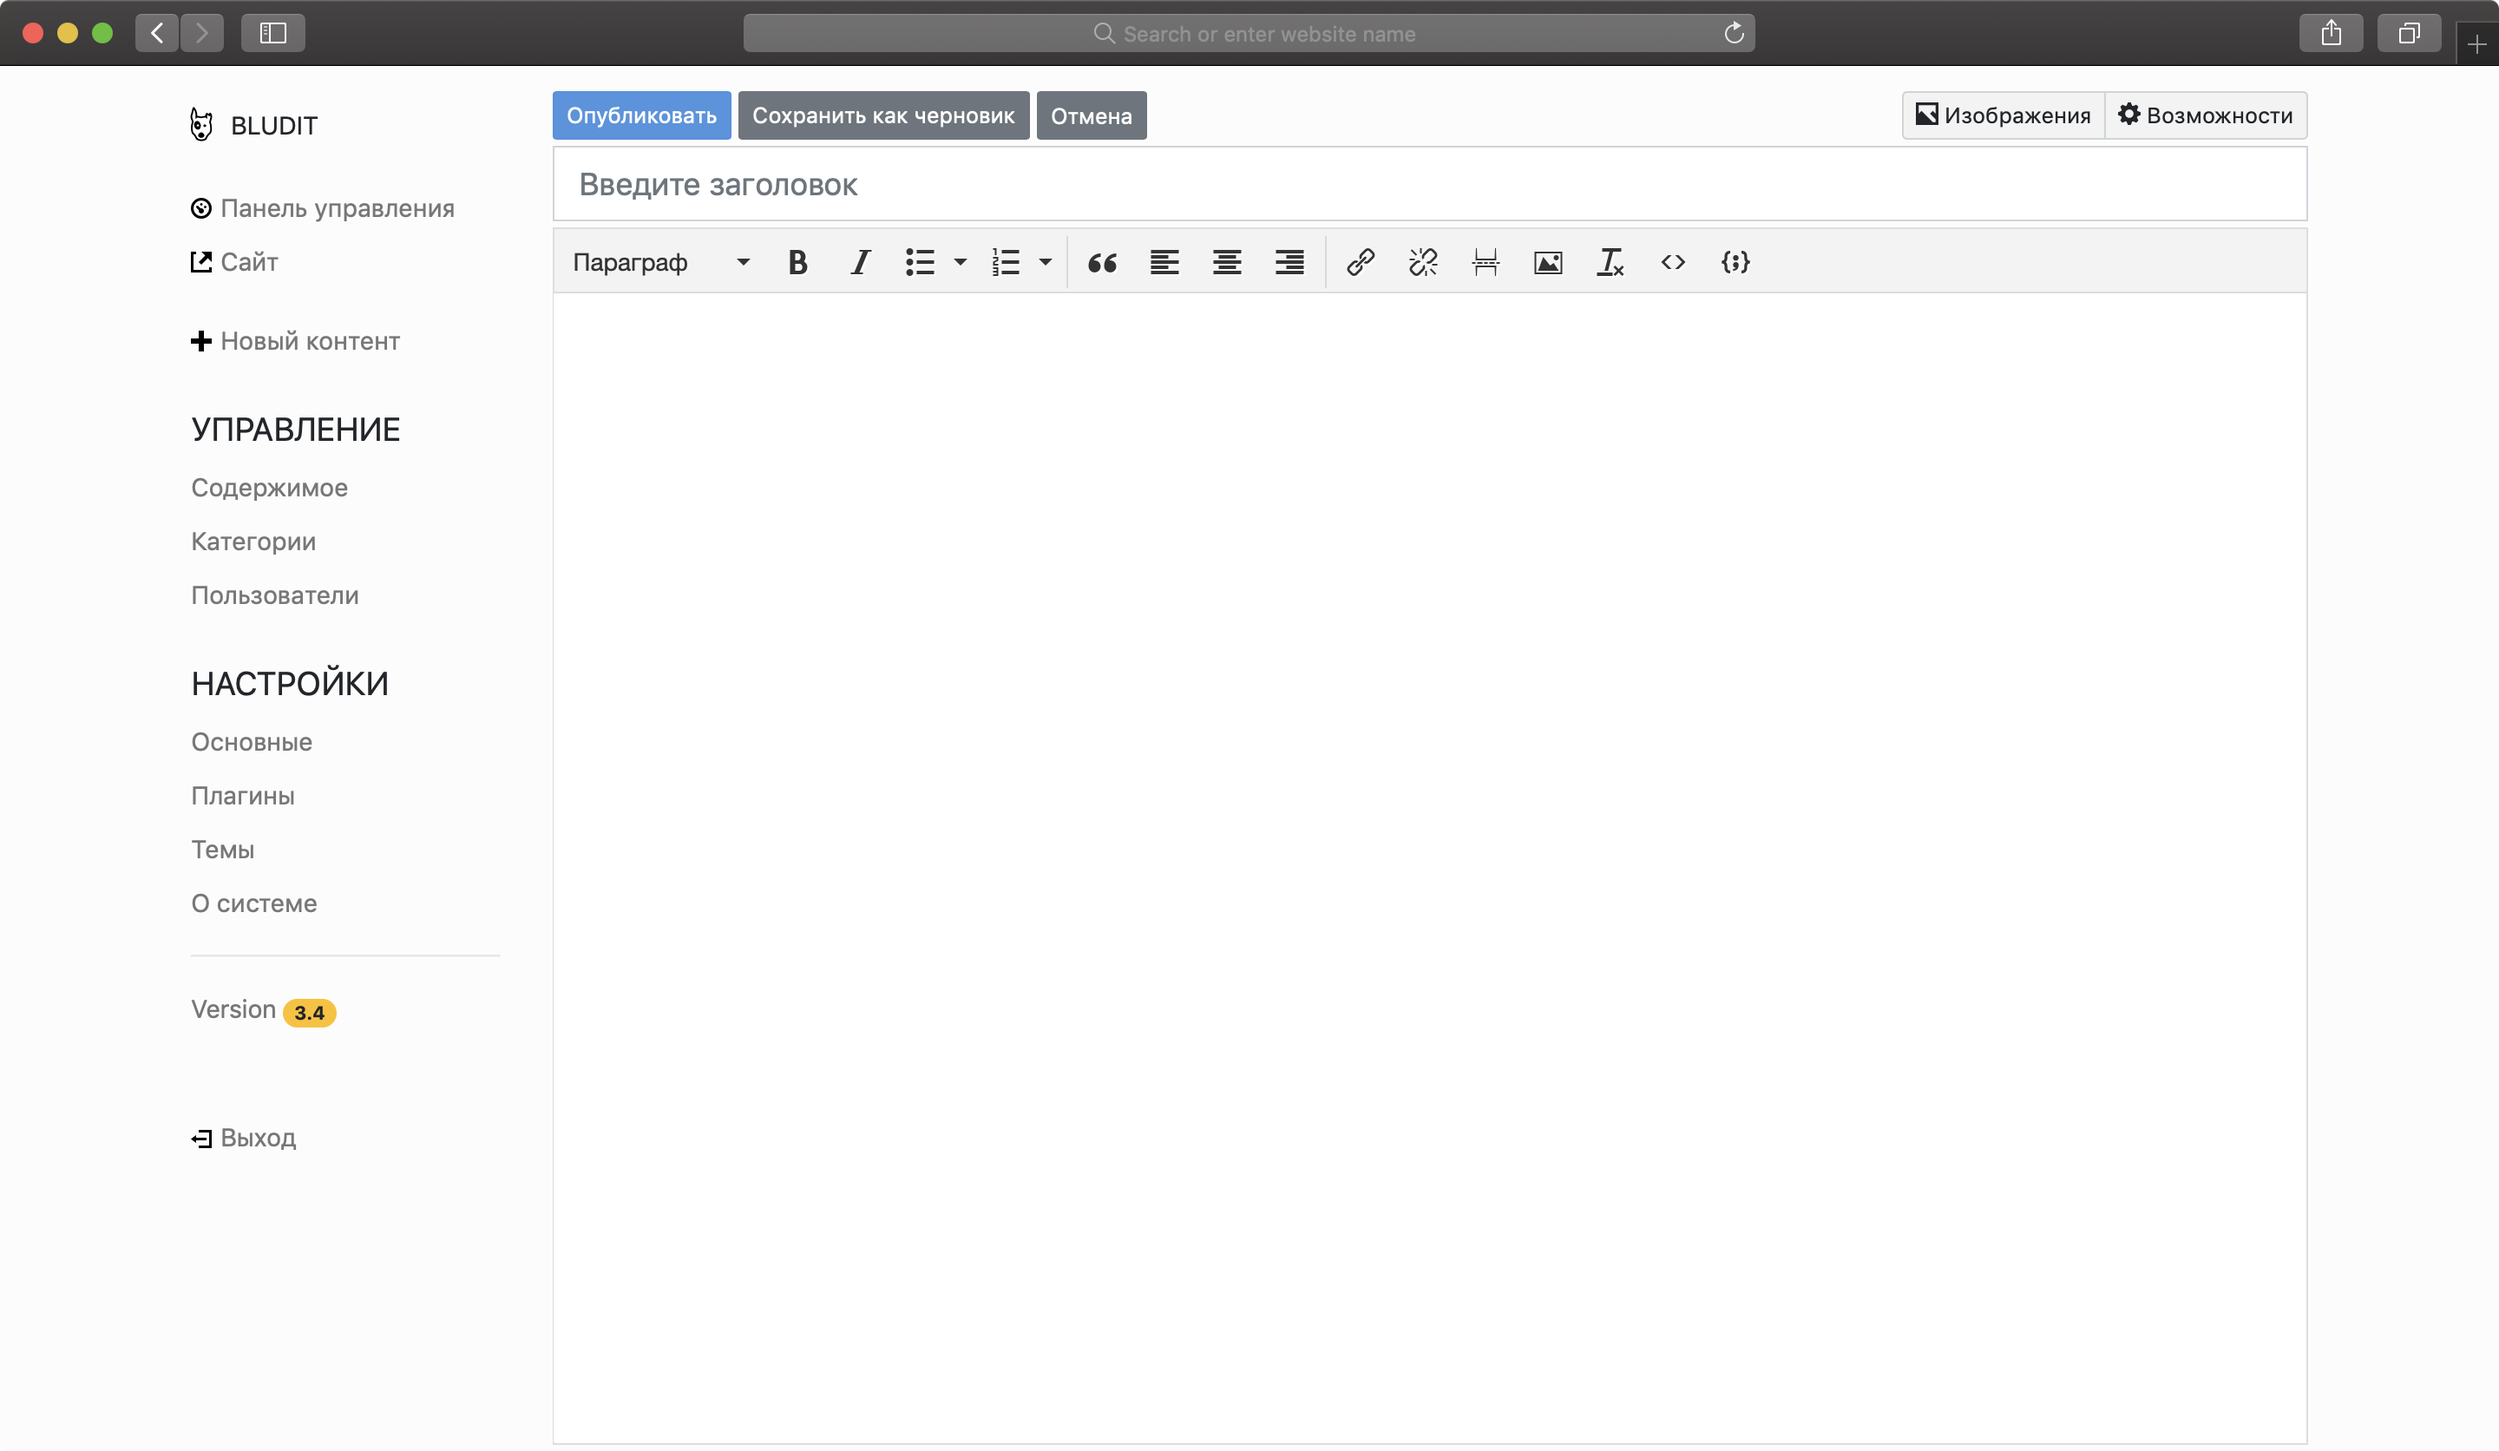
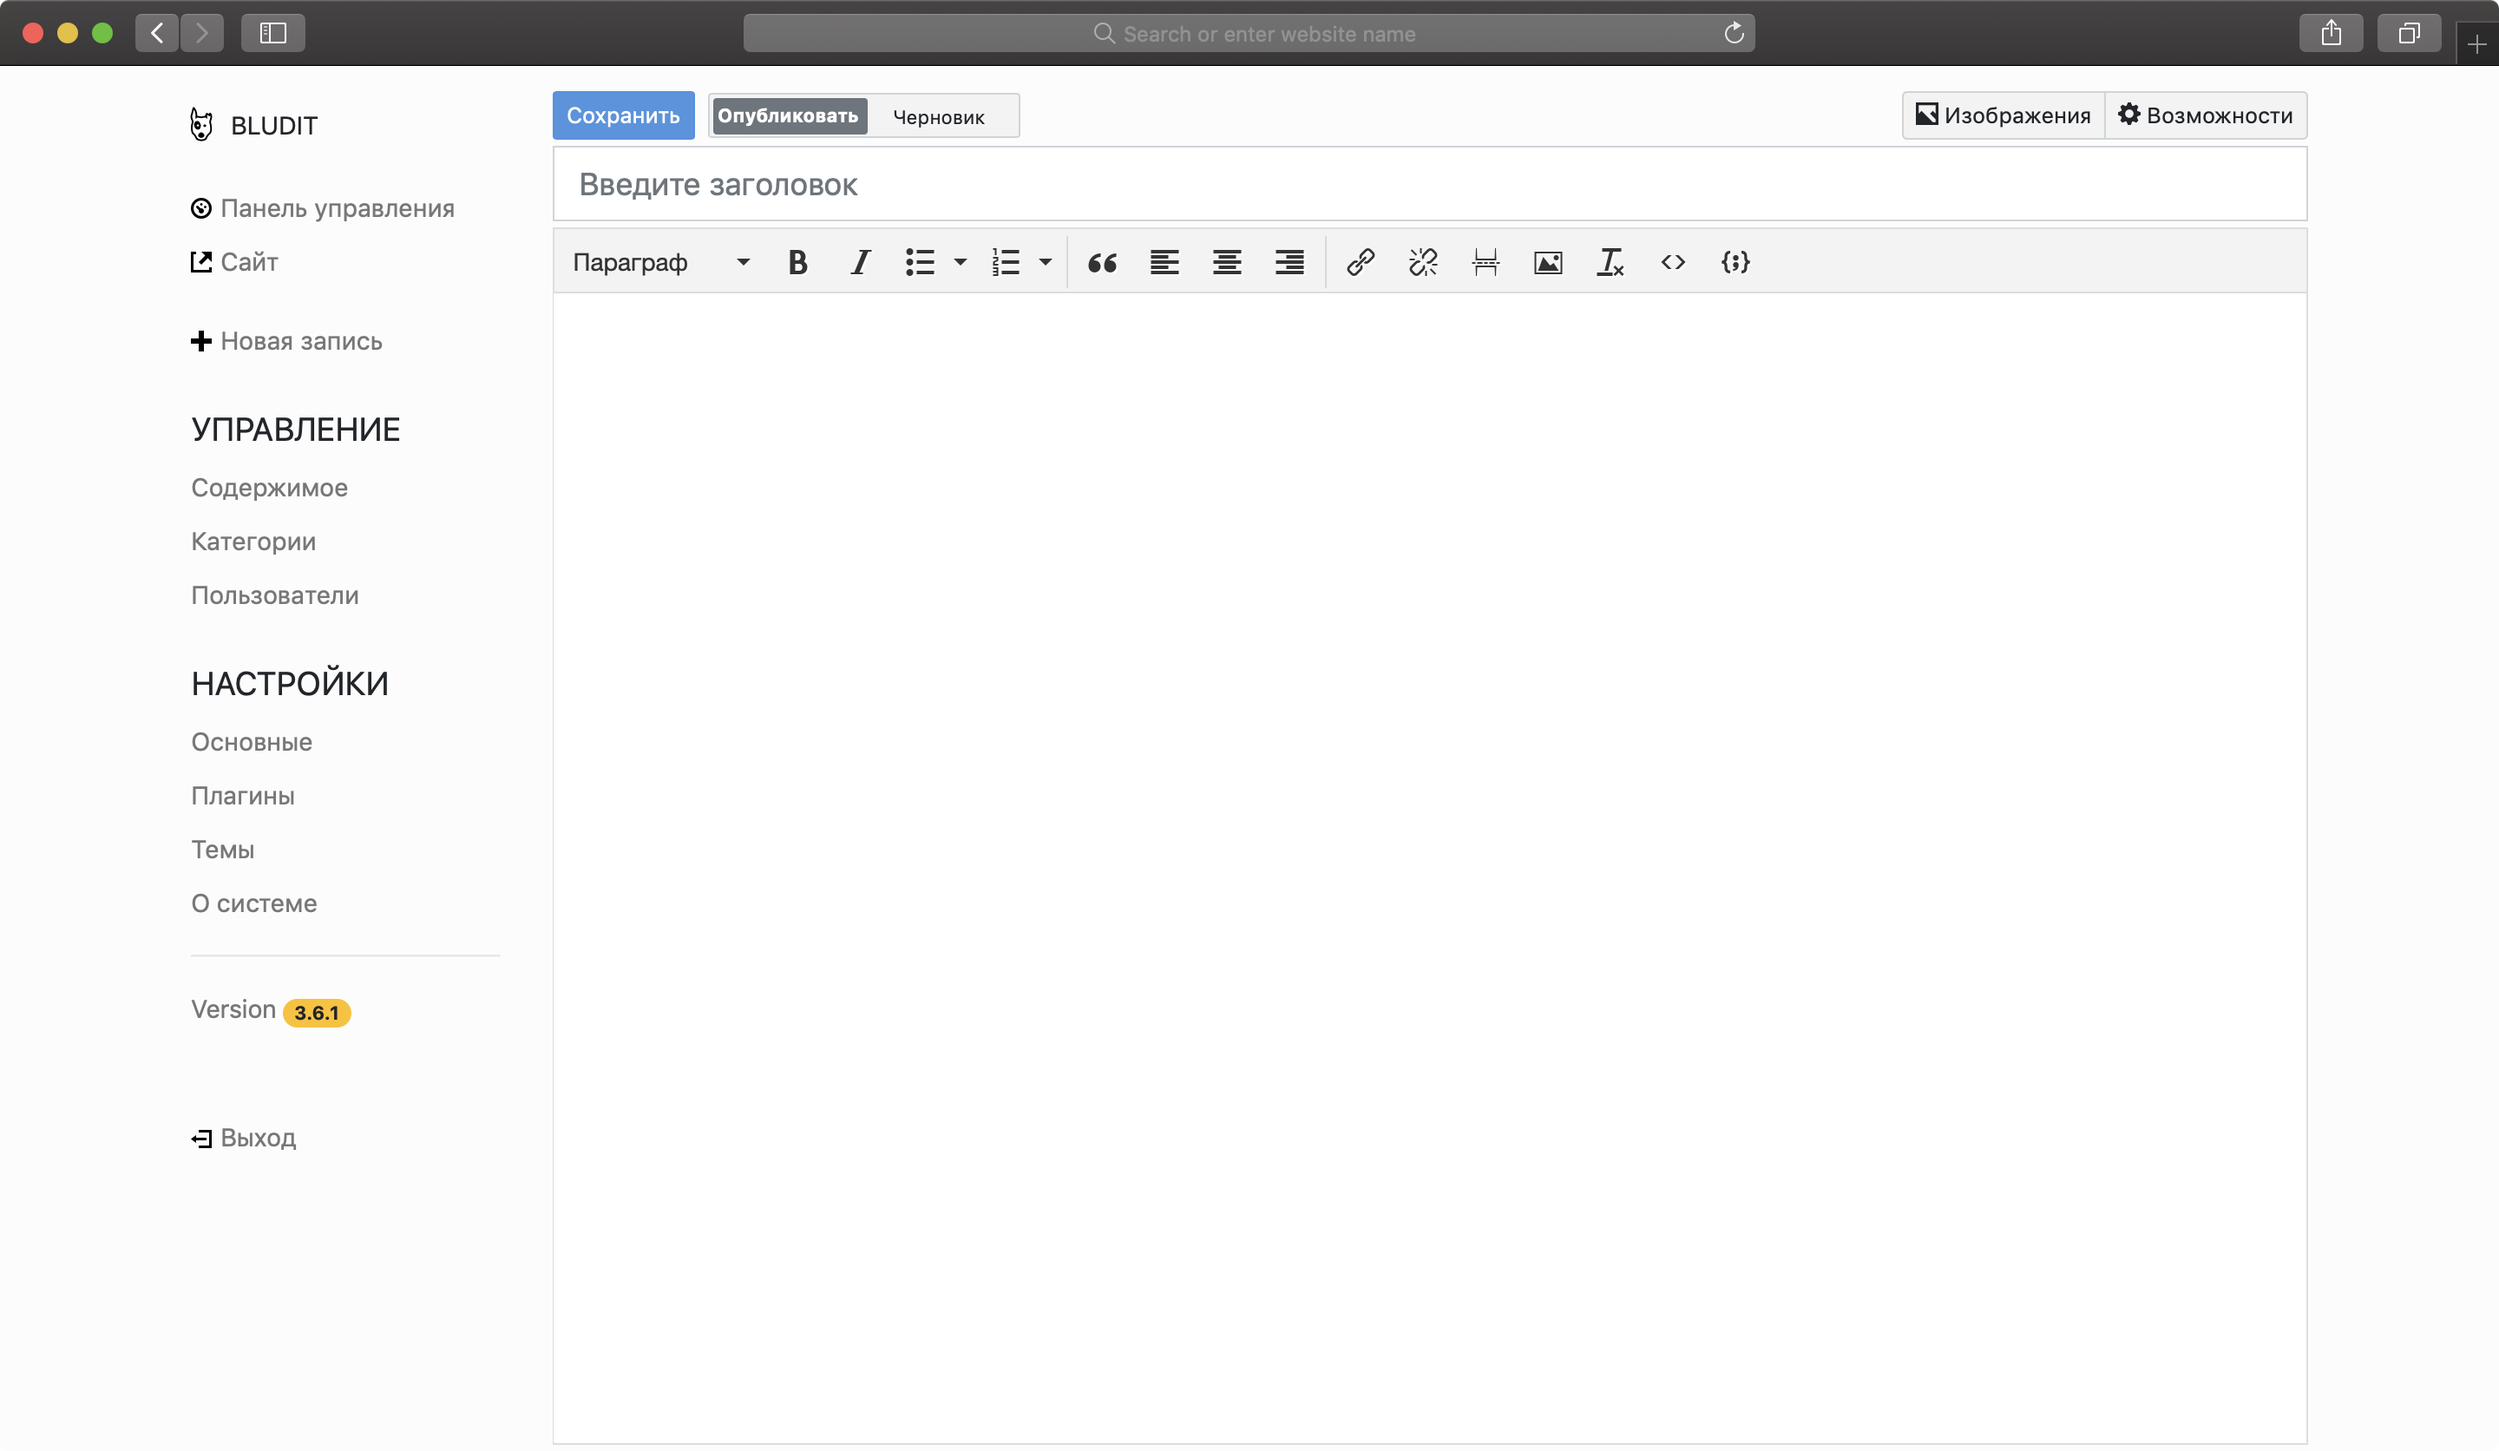
update screenshots

Changed region(s): [[0.2188, 0.0622, 0.4688, 0.0933], [0.0938, 0.2177, 0.1562, 0.2488], [0.125, 0.6842, 0.1562, 0.7153]]

diff --git a/php/config.php b/php/config.php
@@ -2,7 +2,7 @@
 define('DS', DIRECTORY_SEPARATOR);
 define('CHARSET', 'UTF-8');
 define('DOMAIN', 'https://www.bludit.com');
-define('VERSION', '3.4');
+define('VERSION', '3.6');
 
 define('DEFAULT_TWITTER_CARD', 'https://df6m0u2ovo2fu.cloudfront.net/images/bludit-twitter-cards.png');
 define('DEFAULT_FACEBOOK_CARD', 'https://df6m0u2ovo2fu.cloudfront.net/images/bludit-facebook-cards.png');
@@ -32,7 +32,7 @@ if ($currentLanguage !== "en") {
 		'plugins'=>'https://plugins.bludit.com/'.$currentLanguage.'/',
 		'pro'=>'https://pro.bludit.com/'.$currentLanguage.'/',
 		'website'=>DOMAIN.'/'.$currentLanguage.'/',
-		'slider1'=>'https://cdn.jsdelivr.net/gh/bludit/homepage/img/bludit_1_'.$currentLanguage.'.png'
+		'slider1'=>'https://www.bludit.com/img/bludit_1_'.$currentLanguage.'.png'
 	);
 } else {
 	$_topbar = array(
@@ -41,7 +41,7 @@ if ($currentLanguage !== "en") {
 		'plugins'=>'https://plugins.bludit.com',
 		'pro'=>'https://pro.bludit.com',
 		'website'=>DOMAIN,
-		'slider1'=>'https://cdn.jsdelivr.net/gh/bludit/homepage/img/bludit_1_en.png'
+		'slider1'=>'https://www.bludit.com/img/bludit_1_en.png'
 	);
 }
 
